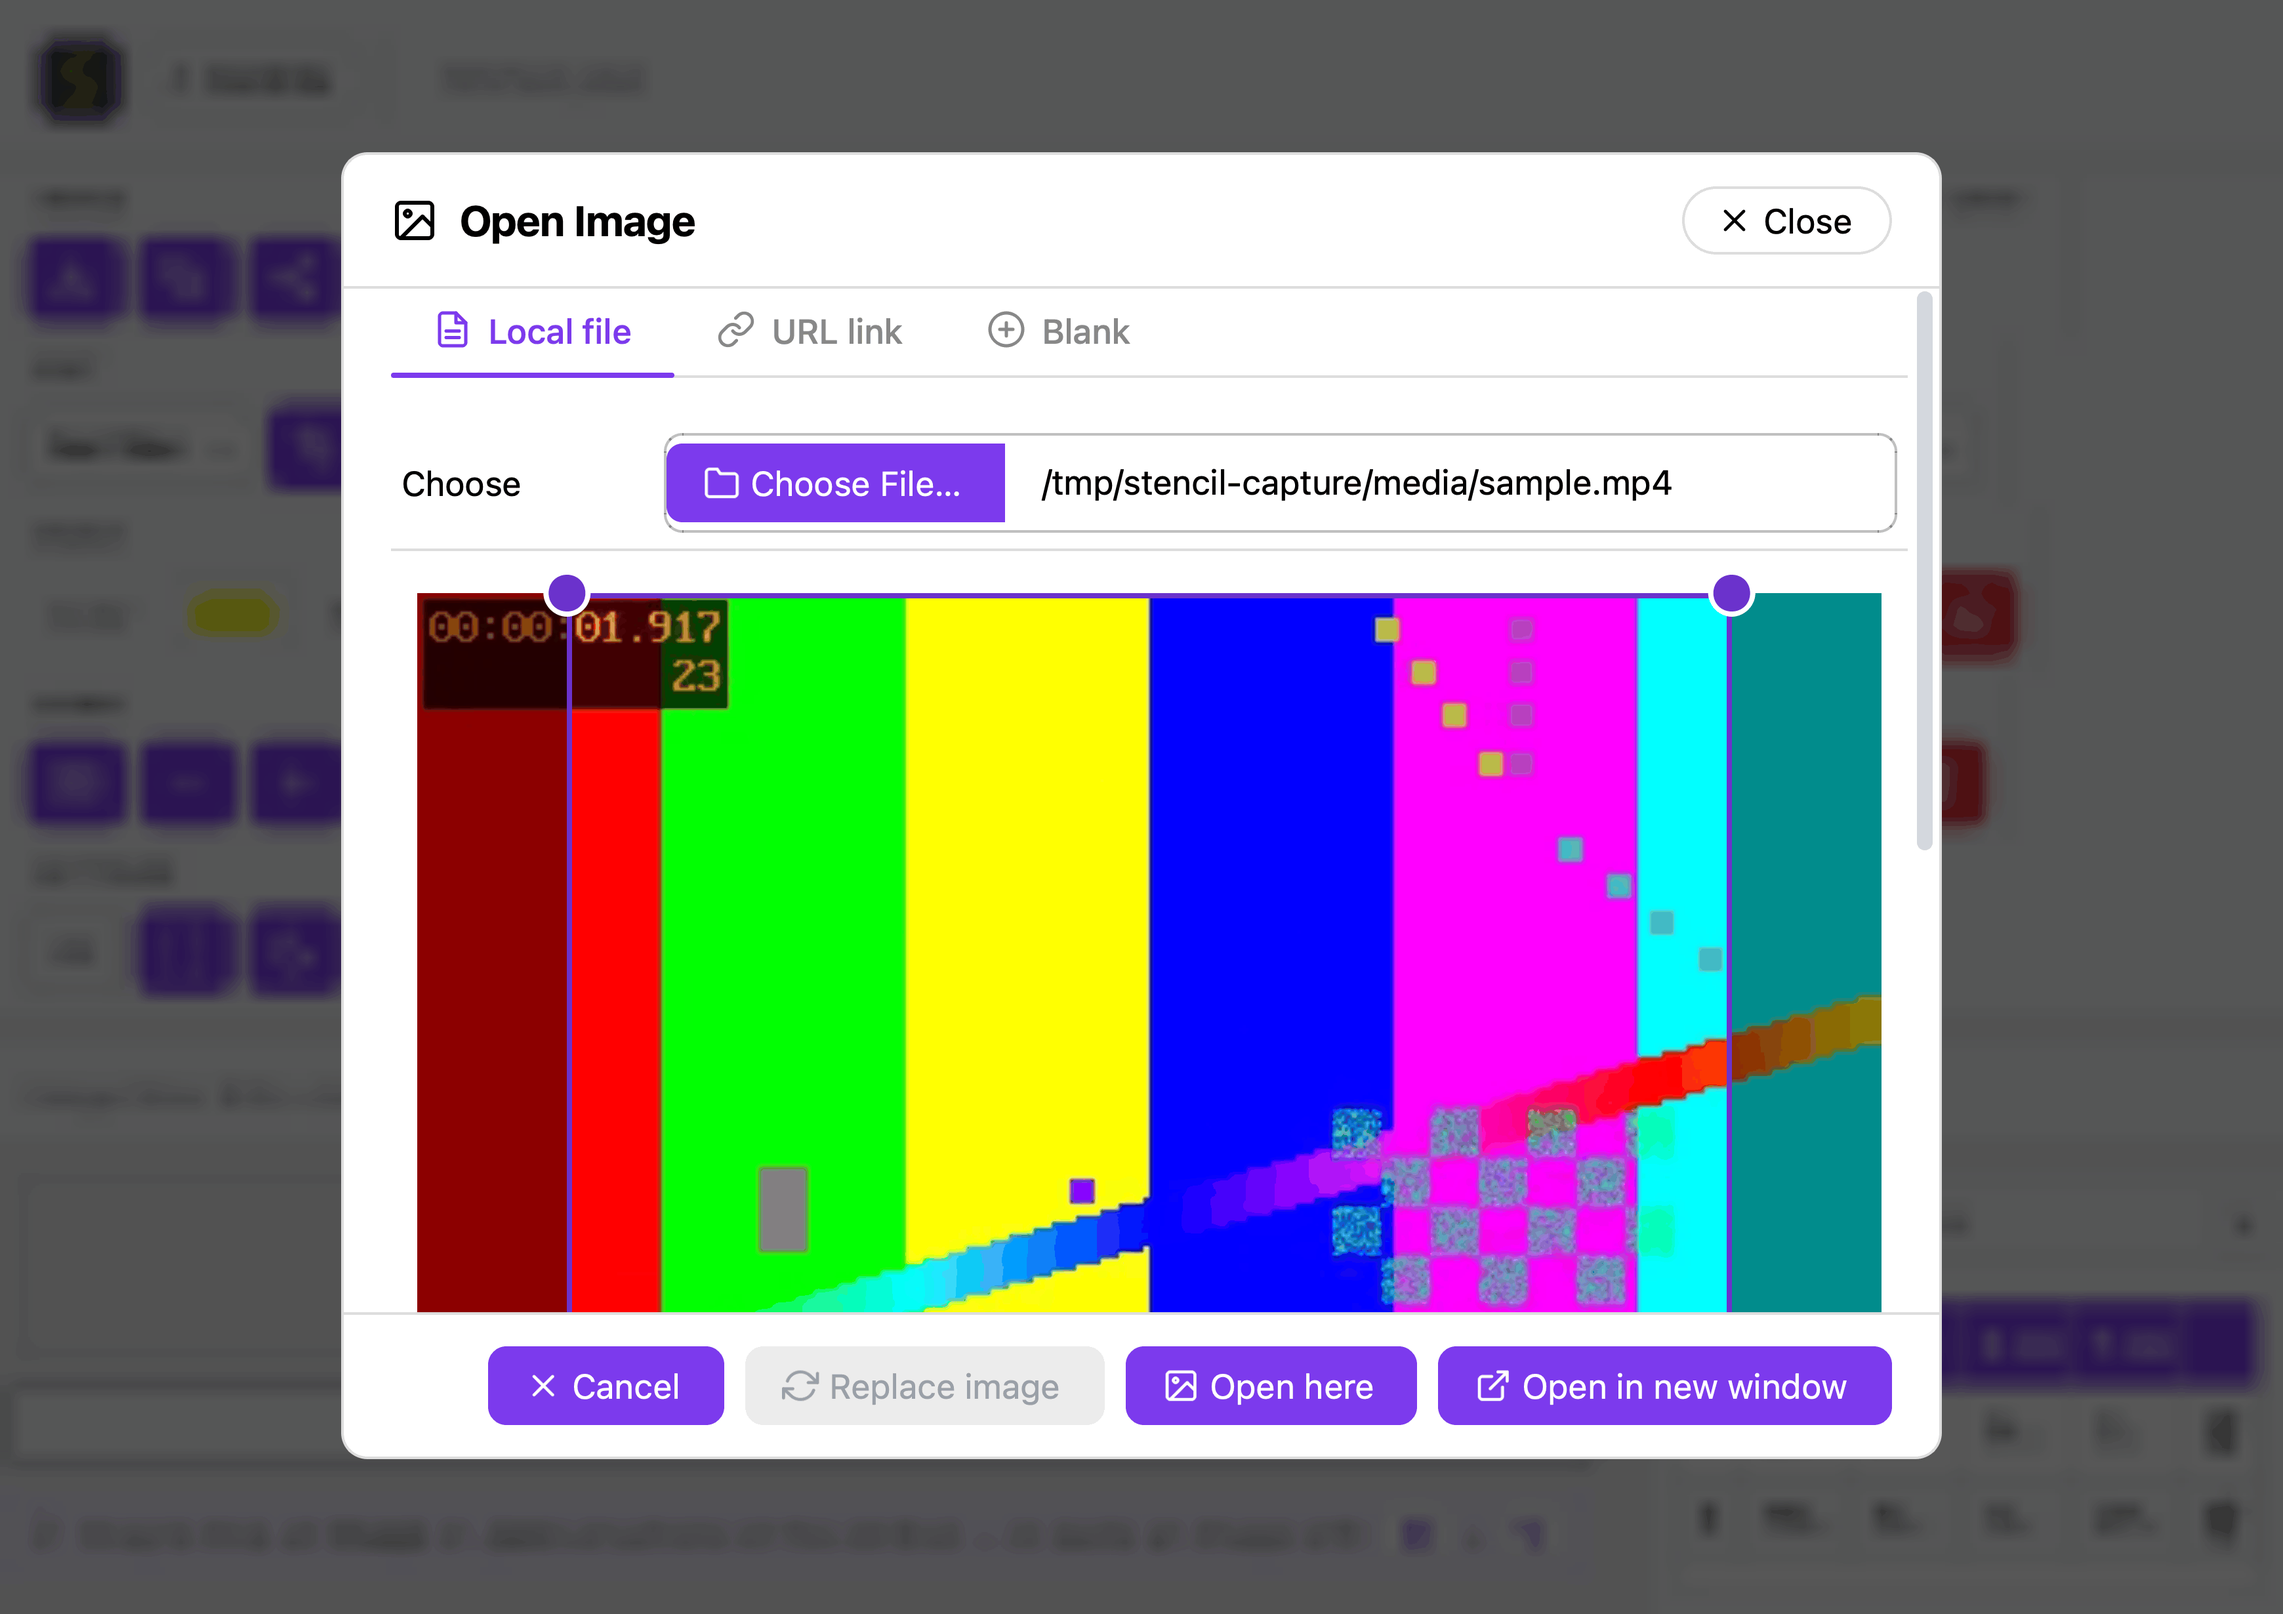
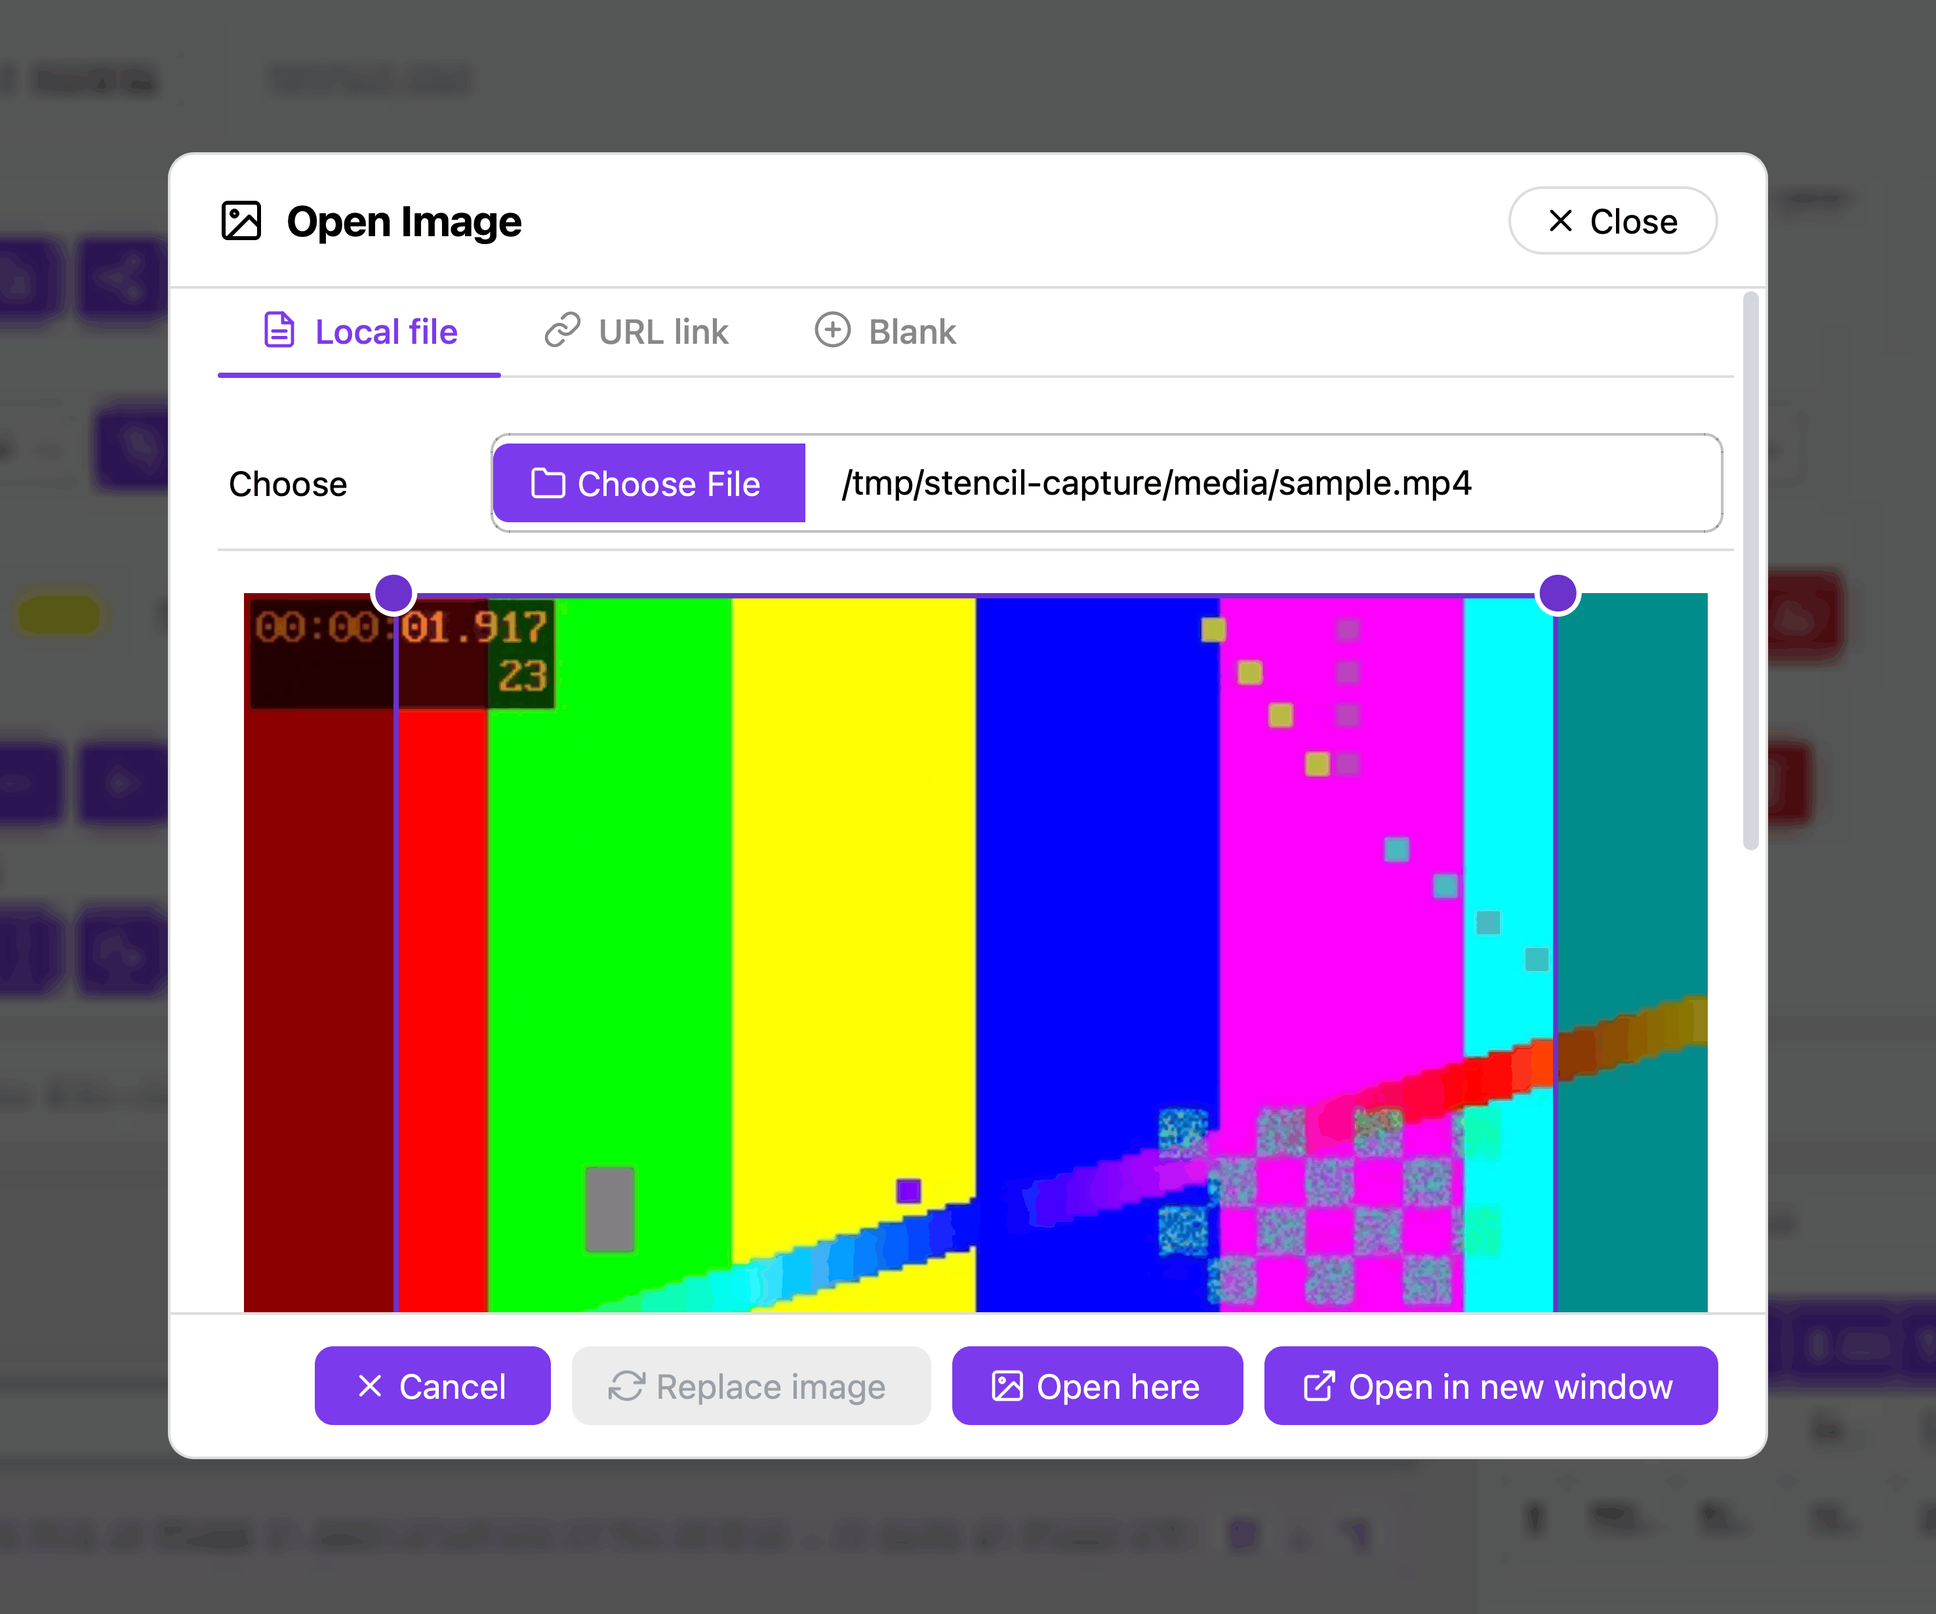
Crop the desktop dialog captures to the dialog and its dimmed margin

diff --git a/usecases/capture-runner/desktop/captureShared.hpp b/usecases/capture-runner/desktop/captureShared.hpp
@@ -34,15 +34,27 @@ inline void save(const QString& name, QWidget* w) {
   save(name, w->grab().toImage());
 }
 
-// A dialog over its window: the window dimmed, the dialog centred on it.
+// A dialog over its window: the window dimmed, the dialog centred on it, then CROPPED back to the
+// dialog and a dimmed margin. The rest of the window is toolbar the shot is not about, and at full
+// size a small dialog reads as a speck.
+inline constexpr int MODAL_MARGIN_PX = 64;
+
 inline void saveOver(const QString& name, QWidget* win, QWidget* dlg) {
   QImage base = win->grab().toImage();
   const QPixmap top = dlg->grab();
+  const QPoint at((win->width() - dlg->width()) / 2, (win->height() - dlg->height()) / 2);
   QPainter p(&base);
   p.fillRect(QRect(QPoint(), win->size()), QColor(0, 0, 0, 80));
-  p.drawPixmap((win->width() - dlg->width()) / 2, (win->height() - dlg->height()) / 2, top);
+  p.drawPixmap(at, top);
   p.end();
-  save(name, base);
+  QRect box(at - QPoint(MODAL_MARGIN_PX, MODAL_MARGIN_PX),
+            dlg->size() + QSize(MODAL_MARGIN_PX * 2, MODAL_MARGIN_PX * 2));
+  box &= QRect(QPoint(), win->size());
+  // grab() hands back a device-pixel image with its ratio set; copy() counts device pixels.
+  const qreal dpr = base.devicePixelRatio();
+  QImage out = base.copy(QRect(box.topLeft() * dpr, box.size() * dpr));
+  out.setDevicePixelRatio(dpr);
+  save(name, out);
 }
 
 // The window, an overlay it is painting, then the dialog: for a drag shot the modal dim of
